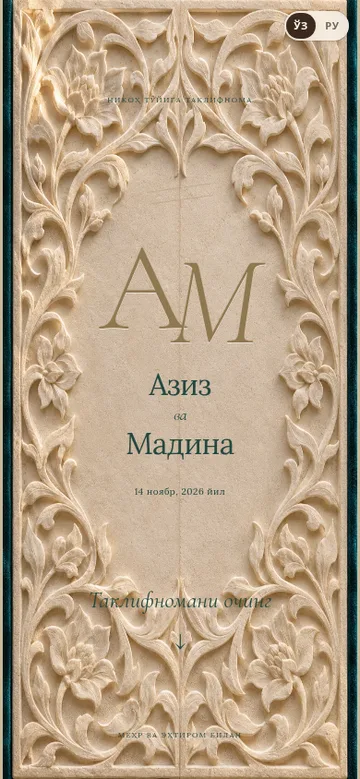
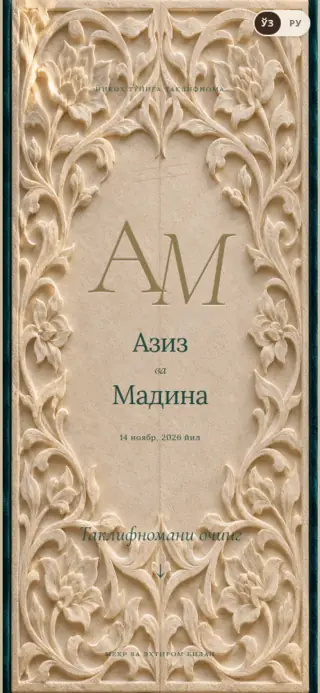
Refine five invitations with hinged envelopes and sculpted VIP scenes
Preserve existing designs and photos; add coherent three-photo defaults, Uzbek-first copy, silk and ganch address silhouettes, and mobile interaction verification.

diff --git a/templates/themes/vip-masterpiece/Parts.tsx b/templates/themes/vip-masterpiece/Parts.tsx
@@ -1,6 +1,6 @@
 "use client";
 import {useId,useRef,type ReactNode} from "react";
-import {motion,useScroll,useReducedMotion} from "motion/react";
+import {motion,useScroll,useReducedMotion,useTransform} from "motion/react";
 import {t,luxuryWeddingCopy as copy} from "@/texts/uz-cyrl";
 import {monthGrid} from "@/lib/wedding-date";
 import type {Invitation} from "../../blocks/useInvitation";
@@ -15,14 +15,17 @@ import s from "./masterpiece.module.css";
 export function Shell({inv,id,children}:{inv:Invitation;id:MasterpieceId;children:ReactNode}){const p=looks[id];return <InvitationShell inv={inv} style={vars(id)} fontsClassName={fonts} className={`${s.page} ${s[p.kind]}`} backdropClassName="bg-[#e2d8c9]" pageColor={p.paper} musicVariant="soft" brandVariant="soft" rsvpLook={{paper:p.paper,ink:p.ink,accent:p.accent,line:p.accent,soft:p.soft,radius:"0px",buttonRadius:"30px"}} epilogue={<Finale inv={inv}/>} >{children}</InvitationShell>;}
 export function Mono({inv}:{inv:Invitation}){const [a,b]=initials(inv.data);return <span className={s.monogram} data-latin-monogram aria-label={`${a} ${b}`}>{a}<i>{b}</i></span>;}
 export function Names({inv}:{inv:Invitation}){const ref=useFitWords<HTMLHeadingElement>(64);return <h1 ref={ref} className={s.names}><Words text={inv.data.groom??""}/><i>{t.natural.and}</i><Words text={inv.data.bride??""}/></h1>;}
-export function ScenePhoto({inv,id,slot,eager=false,className=""}:{inv:Invitation;id:MasterpieceId;slot:1|2|3;eager?:boolean;className?:string}){return <div className={`${s.image} ${className}`}><VipImage photo={photos(inv.data,id)[slot-1]} eager={eager}/></div>;}
+export function ScenePhoto({inv,id,slot,eager=false,className=""}:{inv:Invitation;id:MasterpieceId;slot:1|2|3;eager?:boolean;className?:string}){const ref=useRef<HTMLDivElement>(null),reduced=useReducedMotion(),photo=photos(inv.data,id)[slot-1];const {scrollYProgress}=useScroll({target:ref,offset:["start end","end start"]});const y=useTransform(scrollYProgress,[0,1],[10,-10]);return <div ref={ref} className={`${s.image} ${className}`}><motion.div className={s.photoPlane} style={{y:photo.client||reduced?0:y,scale:photo.client||reduced?1:1.09}}><VipImage photo={photo} eager={eager}/></motion.div></div>;}
 export function DateLine({inv}:{inv:Invitation}){const ev=reception(inv);return <p className={s.dateLine}>{t.date.long(ev.when.day,ev.when.monthIndex,ev.when.year)}<span> · {ev.time}</span></p>;}
 export function Scroll({inv}:{inv:Invitation}){return <span className={s.scroll}>{copy(inv.lang).scroll}<span>↓</span></span>;}
 export const PORTAL="M.06 1V.43Q.06 .26 .25 .25Q.19 .11 .37 .12Q.5 -.08 .63 .12Q.81 .11 .75 .25Q.94 .26 .94 .43V1Z";
 export function Portal({children}:{children:ReactNode}){const key=useId().replaceAll(":","");return <div className={s.portal}><svg width="0" height="0" aria-hidden="true"><defs><clipPath id={key} clipPathUnits="objectBoundingBox"><path d={PORTAL}/></clipPath></defs></svg><div className={s.portalInside} style={{clipPath:`url(#${key})`}}>{children}</div><svg className={s.portalEdge} viewBox="0 0 100 100" preserveAspectRatio="none" aria-hidden="true"><path d="M6 100V43Q6 26 25 25Q19 11 37 12Q50-8 63 12Q81 11 75 25Q94 26 94 43V100"/></svg></div>;}
 export function Flourish(){return <svg className={s.flourish} viewBox="0 0 160 40" fill="none" stroke="currentColor" strokeWidth=".7" aria-hidden="true"><path d="M6 30Q52 7 80 21q15-30 25-10q-7 17-25 10Q108 7 154 30M53 16q-12-18-21-7q5 13 21 7M109 16q12-18 21-7q-5 13-21 7M70 18q-7-21-17-14q0 13 17 14"/><path d="M16 27q17 12 29-3M115 24q12 15 29 3"/></svg>;}
 export function Letter({inv,id}:{inv:Invitation;id:MasterpieceId}){return <section data-vip-section="greeting" className={s.letter}><Reveal className={s.letterInk}><Flourish/><span className={s.eyebrow}>{copy(inv.lang).love}</span><h2>{inv.text.greeting}</h2><p>{inv.text.body}</p><p className={s.hosts}>{inv.data.hosts}</p></Reveal><Reveal className={s.secondFrame}><ScenePhoto inv={inv} id={id} slot={2}/><span className={s.threadLoop} aria-hidden="true"/></Reveal></section>;}
-export function Calendar({inv,children}:{inv:Invitation;children?:ReactNode}){const w=reception(inv).when;return <section data-vip-section="date" className={s.calendarScene}>{children}<Reveal className={s.datePaper}><span className={s.eyebrow}>{copy(inv.lang).day}</span><div className={s.calendarHeading}><span>{String(w.day).padStart(2,"0")}</span><p>{t.date.monthYear(w.monthIndex,w.year)}</p></div><div className={s.calendar} aria-label={t.natural.calendarAria(t.date.long(w.day,w.monthIndex,w.year))}>{t.weekdaysShort.map(d=><span key={d} className={s.weekday}>{d}</span>)}{monthGrid(w.year,w.monthIndex).flat().map((d,i)=><span key={i} aria-current={d===w.day?"date":undefined} className={s.day}>{d}{d===w.day&&<svg viewBox="0 0 44 44" aria-hidden="true"><path d="M22 38C2 25 1 15 8 9c6-4 12 0 14 5 4-9 13-10 17-3 6 10-7 21-17 27Z" pathLength="1"/></svg>}</span>)}</div></Reveal></section>;}
+export function Calendar({inv,children}:{inv:Invitation;children?:ReactNode}){const w=reception(inv).when;return <section data-vip-section="date" className={s.calendarScene}>{children}<Reveal className={s.datePaper}><SculptedPaper calendar/><span className={s.eyebrow}>{copy(inv.lang).day}</span><div className={s.calendarHeading}><span>{String(w.day).padStart(2,"0")}</span><p>{t.date.monthYear(w.monthIndex,w.year)}</p></div><div className={s.calendar} aria-label={t.natural.calendarAria(t.date.long(w.day,w.monthIndex,w.year))}>{t.weekdaysShort.map(d=><span key={d} className={s.weekday}>{d}</span>)}{monthGrid(w.year,w.monthIndex).flat().map((d,i)=><span key={i} aria-current={d===w.day?"date":undefined} className={s.day}>{d}{d===w.day&&<svg viewBox="0 0 44 44" aria-hidden="true"><path d="M22 38C2 25 1 15 8 9c6-4 12 0 14 5 4-9 13-10 17-3 6 10-7 21-17 27Z" pathLength="1"/></svg>}</span>)}</div></Reveal></section>;}
 export function Programme({inv}:{inv:Invitation}){const ref=useRef<HTMLElement>(null),reduced=useReducedMotion(),{scrollYProgress}=useScroll({target:ref,offset:["start 85%","end 70%"]});return <section ref={ref} data-vip-section="program" className={s.programme}><Reveal><h2>{t.venue.programTitle}</h2></Reveal><div className={s.programThread}><svg viewBox="0 0 300 700" preserveAspectRatio="none" aria-hidden="true"><path d="M145 0C-60 100 350 175 150 340S-40 500 155 700"/><motion.path d="M145 0C-60 100 350 175 150 340S-40 500 155 700" style={{pathLength:reduced?1:scrollYProgress}}/></svg><ol>{inv.program.map((ev,i)=><li key={`${ev.kind}-${ev.date}-${i}`}><Reveal><span className={s.eventIndex}>{String(i+1).padStart(2,"0")}</span><time dateTime={`${ev.date}T${ev.time}`}>{ev.time}</time><h3>{ev.title}</h3><p>{t.date.long(ev.when.day,ev.when.monthIndex,ev.when.year)}</p><p>{ev.venueName}</p></Reveal></li>)}</ol></div></section>;}
-export function Venues({inv}:{inv:Invitation}){return <section data-vip-section="venue" className={s.venues}><Reveal><Flourish/><span className={s.eyebrow}>{copy(inv.lang).arrival}</span><h2>{t.natural.place}</h2></Reveal>{inv.program.map((ev,i)=><Reveal key={`${ev.kind}-${i}`} className={s.venue}><p className={s.eyebrow}>{ev.title} · {ev.time}</p><h3>{ev.venueName}</h3><p>{ev.address}</p><MapButton href={ev.mapHref} className={s.mapButton} iconClassName="text-current"/></Reveal>)}</section>;}
+export function Venues({inv}:{inv:Invitation}){return <section data-vip-section="venue" className={s.venues}><Reveal><Flourish/><span className={s.eyebrow}>{copy(inv.lang).arrival}</span><h2>{t.natural.place}</h2></Reveal>{inv.program.map((ev,i)=><Reveal key={`${ev.kind}-${i}`} className={s.venue}><SculptedPaper/><span className={s.venueOrdinal} aria-hidden="true">{String(i+1).padStart(2,"0")}</span><p className={s.eyebrow}>{ev.title} · {ev.time}</p><h3>{ev.venueName}</h3><p>{ev.address}</p><MapButton href={ev.mapHref} className={s.mapButton} iconClassName="text-current"/></Reveal>)}</section>;}
 function Finale({inv}:{inv:Invitation}){return <section data-vip-section="closing" data-master-closing className={s.finale}><Reveal><Flourish/><Mono inv={inv}/><h2>{t.hosts.waiting}</h2><p>{inv.blessing}</p><p className={s.hosts}>{inv.data.hosts}</p></Reveal></section>;}
+
+/** A real material follows the silhouette; these are never rectangular address cards. */
+function SculptedPaper({calendar=false}:{calendar?:boolean}){const key=useId().replaceAll(":","");const d=calendar?"M160 4C265 4 315 70 303 180Q285 270 309 350C327 420 245 477 160 476C75 477-7 420 17 350Q35 270 17 180C5 70 55 4 160 4Z":"M160 5C220 35 254 10 284 55Q312 80 309 140L309 330Q280 369 240 360Q210 396 160 398Q110 396 80 360Q40 369 11 330L11 140Q8 80 36 55C66 10 100 35 160 5Z";return <svg className={s.surface} viewBox={calendar?"0 0 320 480":"0 0 320 404"} preserveAspectRatio="none" aria-hidden="true"><defs><pattern id={key} width="1" height="1" patternContentUnits="objectBoundingBox"><image className={s.surfaceSilk} href="/vip/vip-ipak-ziyosi/material.webp" width="1" height="1" preserveAspectRatio="xMidYMid slice"/><image className={s.surfaceGanch} href="/vip/vip-zarbof/material.webp" width="1" height="1" preserveAspectRatio="xMidYMid slice"/></pattern></defs><path className={s.surfaceBase} d={d}/><path className={s.surfaceTexture} d={d} fill={`url(#${key})`}/><path className={s.surfaceLine} d={d} pathLength="1"/></svg>;}

diff --git a/templates/themes/vip-tilla-muhr/Elements.tsx b/templates/themes/vip-tilla-muhr/Elements.tsx
@@ -3,7 +3,7 @@
 
 import { useEffect, useRef } from "react";
 import { motion, useMotionValue, useMotionValueEvent, useReducedMotion, useScroll } from "motion/react";
-import { t } from "@/texts/uz-cyrl";
+import { t, luxuryWeddingCopy as copy } from "@/texts/uz-cyrl";
 import { monthGrid } from "@/lib/wedding-date";
 import type { Invitation, InvitationEventView } from "../../blocks/useInvitation";
 import { useFitWords, Words } from "../../blocks/FitWords";
@@ -25,7 +25,7 @@ export function Greeting({ inv, id, ornate = false }: { inv: Invitation; id: str
 }
 export function DateSection({ inv }: { inv: Invitation }) {
   const date = inv.main.when;
-  return <section data-vip-section="date" className={`${s.section} ${s.dateSection}`}><Reveal><span className={s.eyebrow}>{t.vip.saveDate}</span><h2 className={s.script}>{t.natural.date}</h2><p className={s.month}>{t.date.monthYear(date.monthIndex, date.year)}</p><div className={s.calendar} aria-label={t.natural.calendarAria(t.date.long(date.day,date.monthIndex,date.year))}>{t.weekdaysShort.map(d=><span className={s.weekday} key={d}>{d}</span>)}{monthGrid(date.year,date.monthIndex).flat().map((d,i)=><span key={i} className={s.day} aria-current={d===date.day?"date":undefined}>{d}{d===date.day&&<svg viewBox="0 0 52 52" aria-hidden="true"><path d="M26 45C4 30 0 18 9 11c7-6 14-1 17 5 5-10 15-12 20-4 8 12-6 26-20 33Z" fill="none" stroke="currentColor" strokeWidth="1.1" pathLength="1" /></svg>}</span>)}</div><p className={s.dateNote}>{t.date.long(date.day,date.monthIndex,date.year)}</p></Reveal></section>;
+  return <section data-vip-section="date" className={`${s.section} ${s.dateSection}`}><Reveal><span className={s.eyebrow}>{copy(inv.lang).day}</span><h2 className={s.script}>{t.natural.date}</h2><p className={s.month}>{t.date.monthYear(date.monthIndex, date.year)}</p><div className={s.calendar} aria-label={t.natural.calendarAria(t.date.long(date.day,date.monthIndex,date.year))}>{t.weekdaysShort.map(d=><span className={s.weekday} key={d}>{d}</span>)}{monthGrid(date.year,date.monthIndex).flat().map((d,i)=><span key={i} className={s.day} aria-current={d===date.day?"date":undefined}>{d}{d===date.day&&<svg viewBox="0 0 52 52" aria-hidden="true"><path d="M26 45C4 30 0 18 9 11c7-6 14-1 17 5 5-10 15-12 20-4 8 12-6 26-20 33Z" fill="none" stroke="currentColor" strokeWidth="1.1" pathLength="1" /></svg>}</span>)}</div><p className={s.dateNote}>{t.date.long(date.day,date.monthIndex,date.year)}</p></Reveal></section>;
 }
 const CURVE="M160 12 C52 80 268 160 160 225 S52 355 160 415 S268 545 160 610 S70 700 160 748";
 /** Real order events only: no invented cake, ceremony or party times. Motion values avoid React renders per scroll frame. */
@@ -53,10 +53,10 @@ export function Program({ inv, ornate = false }: { inv: Invitation; ornate?: boo
     // eslint-disable-next-line react-hooks/exhaustive-deps
   },[reduced,inv.program.length]);
   useMotionValueEvent(scrollYProgress,"change",p=>{if(!reduced)update(p);});
-  return <section data-vip-section="program" className={`${s.section} ${s.program}`}><Reveal><Branch ornate={ornate} /><span className={s.eyebrow}>{t.vip.ourDay}</span><h2 className={s.script}>{t.venue.programTitle}</h2></Reveal><div ref={container} className={s.timeline} style={{minHeight:Math.max(650,inv.program.length*310)}}><svg className={s.path} viewBox="0 0 320 760" preserveAspectRatio="none" aria-hidden="true"><path ref={path} d={CURVE} fill="none" stroke="currentColor" strokeWidth=".8" vectorEffect="non-scaling-stroke" /></svg><motion.span ref={heart} data-vip-heart aria-hidden="true" className={s.movingHeart} style={{x,y}}>♥</motion.span>{inv.program.map((ev,i)=><article key={`${ev.kind}-${ev.date}-${ev.time}-${i}`} data-program-item className={s.programItem} style={{top:`${(i+.5)/inv.program.length*100}%`}}><span className={s.programNumber} aria-hidden="true">{String(i+1).padStart(2,"0")}</span><time dateTime={`${ev.date}T${ev.time}`}>{ev.time}</time><h3>{ev.title}</h3><p>{t.date.long(ev.when.day,ev.when.monthIndex,ev.when.year)}</p><p>{ev.venueName}</p></article>)}</div></section>;
+  return <section data-vip-section="program" className={`${s.section} ${s.program}`}><Reveal><Branch ornate={ornate} /><span className={s.eyebrow}>{copy(inv.lang).day}</span><h2 className={s.script}>{t.venue.programTitle}</h2></Reveal><div ref={container} className={s.timeline} style={{minHeight:Math.max(650,inv.program.length*310)}}><svg className={s.path} viewBox="0 0 320 760" preserveAspectRatio="none" aria-hidden="true"><path ref={path} d={CURVE} fill="none" stroke="currentColor" strokeWidth=".8" vectorEffect="non-scaling-stroke" /></svg><motion.span ref={heart} data-vip-heart aria-hidden="true" className={s.movingHeart} style={{x,y}}>♥</motion.span>{inv.program.map((ev,i)=><article key={`${ev.kind}-${ev.date}-${ev.time}-${i}`} data-program-item className={s.programItem} style={{top:`${(i+.5)/inv.program.length*100}%`}}><span className={s.programNumber} aria-hidden="true">{String(i+1).padStart(2,"0")}</span><time dateTime={`${ev.date}T${ev.time}`}>{ev.time}</time><h3>{ev.title}</h3><p>{t.date.long(ev.when.day,ev.when.monthIndex,ev.when.year)}</p><p>{ev.venueName}</p></article>)}</div></section>;
 }
 export function Venues({ inv }: { inv: Invitation }) {
-  return <section data-vip-section="venue" className={`${s.section} ${s.venues}`}><Reveal><span className={s.eyebrow}>{t.vip.together}</span><h2 className={s.script}>{t.natural.place}</h2></Reveal>{inv.program.map((ev,i)=><Venue key={`${ev.kind}-${i}`} ev={ev} />)}</section>;
+  return <section data-vip-section="venue" className={`${s.section} ${s.venues}`}><Reveal><span className={s.eyebrow}>{copy(inv.lang).arrival}</span><h2 className={s.script}>{t.natural.place}</h2></Reveal>{inv.program.map((ev,i)=><Venue key={`${ev.kind}-${i}`} ev={ev} />)}</section>;
 }
 function Venue({ ev }: {ev:InvitationEventView}) {
   return <Reveal className={s.venueCard}><p className={s.eyebrow}>{ev.title} · {ev.time}</p><h3>{ev.venueName}</h3>{ev.address&&<p>{ev.address}</p>}<MapButton href={ev.mapHref} className={s.mapButton} iconClassName="text-current" /></Reveal>;

diff --git a/templates/themes/vip-tilla-muhr/Envelope.tsx b/templates/themes/vip-tilla-muhr/Envelope.tsx
@@ -3,7 +3,7 @@
 /* eslint-disable @next/next/no-img-element -- Local materials are decoded before the short opening. */
 import { useEffect, useRef, useState, type CSSProperties } from "react";
 import { useAnimate, useReducedMotion } from "motion/react";
-import { t } from "@/texts/uz-cyrl";
+import { t, luxuryWeddingCopy as copy } from "@/texts/uz-cyrl";
 import type { Invitation } from "../../blocks/useInvitation";
 import { OpeningCaption } from "../../blocks/OpeningCaption";
 import { vipPhotos } from "./photos";
@@ -27,7 +27,7 @@ export function Envelope({ inv, id }: { inv: Invitation; id: string }) {
     const decode = async (src: string) => { const img = new Image(); img.src = src; await img.decode(); };
     const photos = vipPhotos(inv.data, id).slice(0, 2);
     return Promise.all([
-      ...["seal", "opening-envelope"].map(name => decode(`${base}/${name}.webp`)),
+      ...["seal", "opening-envelope", id === "vip-suzana" ? "lining" : "opening-lining"].map(name => decode(`${base}/${name}.webp`)),
       ...photos.map(async photo => {
         if (!photo) return;
         try { await decode(photo.src); } catch { await decode(photo.fallback); }
@@ -61,18 +61,19 @@ export function Envelope({ inv, id }: { inv: Invitation; id: string }) {
     setLoading(false);
     if (reduced) { inv.finishOpening(); return; }
 
-    const ease = [0.22, 0.61, 0.24, 1] as const;
+    const ease = [0.42, 0, 0.18, 1] as const;
     setPhase("crack");
     await animate("[data-vip-wax]", { scale: [1, 0.955, 1] }, { duration: 0.2, ease: "easeInOut" });
     if (!alive.current) return;
     setPhase("opening");
     await Promise.all([
-      animate("[data-vip-envelope-upper]", { y: "-77dvh", rotateX: 8 }, { duration: 1.4, ease }),
-      animate("[data-vip-envelope-lower]", { y: "42dvh", rotateX: -6 }, { duration: 1.4, ease }),
-      animate("[data-vip-cover-ink]", { y: "-77dvh", opacity: 0 }, { duration: 1.15, ease }),
-      animate("[data-vip-footer-ink]", { y: "42dvh", opacity: 0 }, { duration: 1.1, ease }),
-      animate("[data-vip-seal-half=upper]", { y: -145, rotate: -5, opacity: 0 }, { duration: 0.65, ease }),
-      animate("[data-vip-seal-half=lower]", { y: 145, rotate: 5, opacity: 0 }, { duration: 0.65, ease }),
+      animate("[data-envelope-hinge]", { rotateX: -154 }, { duration: .72, ease }),
+      animate("[data-vip-envelope-upper]", { y: "-74dvh", rotateX: 7 }, { duration: 1.05, delay: .3, ease }),
+      animate("[data-vip-envelope-lower]", { y: "65dvh", rotateX: -9 }, { duration: 1.05, delay: .3, ease }),
+      animate("[data-vip-cover-ink]", { opacity: 0 }, { duration: .25, ease: "easeOut" }),
+      animate("[data-vip-footer-ink]", { opacity: 0 }, { duration: .3, ease: "easeOut" }),
+      animate("[data-vip-seal-half=upper]", { y: -65, rotate: -14, opacity: 0 }, { duration: .5, ease }),
+      animate("[data-vip-seal-half=lower]", { y: 85, rotate: 12, opacity: 0 }, { duration: .55, ease }),
     ]);
     if (alive.current) inv.finishOpening();
   }
@@ -80,14 +81,14 @@ export function Envelope({ inv, id }: { inv: Invitation; id: string }) {
   if (inv.opened) return null;
   const initials = [inv.data.groom?.charAt(0), inv.data.bride?.charAt(0)].join(" · ");
   return <button
-    ref={scope} type="button" data-open data-vip-envelope data-vip-opening="split-v3" data-phase={phase}
+    ref={scope} type="button" data-open data-vip-envelope data-vip-opening="hinged-v4" data-phase={phase}
     aria-label={t.opening.tapToOpen} onClick={open} className={s.envelope}
-    style={{ "--vip-envelope-photo": `url(${base}/opening-envelope.webp)` } as CSSProperties}
+    style={{ "--vip-envelope-photo": `url(${base}/opening-envelope.webp)`, "--envelope-lining": `url(${base}/${id === "vip-suzana" ? "lining" : "opening-lining"}.webp)` } as CSSProperties}
   >
-    <span data-vip-envelope-upper className={s.upper} />
-    <span data-vip-envelope-lower className={s.lower} />
+    <span data-vip-envelope-lower className={s.lower}><span className={s.innerLining}/></span>
+    <span data-vip-envelope-upper className={s.upperGroup}><span className={s.upper}/><span data-envelope-hinge className={s.hinge}><span className={s.flapFront}/><span className={s.flapBack}/></span></span>
     <span data-vip-cover-ink className={s.coverCaption}>
-      <span className={s.eyebrow}>{t.vip.privateLetter}</span>
+      <span className={s.eyebrow}>{copy(inv.lang).invitation}</span>
       <span className={s.monogram}>{initials}</span>
       <OpeningCaption inv={inv} nameClassName={s.coverNames} metaClassName={s.coverMeta} />
     </span>
@@ -96,7 +97,7 @@ export function Envelope({ inv, id }: { inv: Invitation; id: string }) {
         <img src={`${base}/seal.webp`} alt="" width={480} height={480} /><span>{initials}</span>
       </span>)}
     </span></span>
-    <span data-vip-footer-ink className={s.openLabel} role="status">{error ? t.vip.retry : loading ? t.vip.loading : t.vip.openMe}</span>
-    <span data-vip-footer-ink className={s.coverFooter}>{t.vip.withLove}</span>
+    <span data-vip-footer-ink className={s.openLabel} role="status">{error ? copy(inv.lang).retry : loading ? copy(inv.lang).loading : copy(inv.lang).open}</span>
+    <span data-vip-footer-ink className={s.coverFooter}>{copy(inv.lang).love}</span>
   </button>;
 }

diff --git a/templates/themes/vip-masterpiece/masterpiece.module.css b/templates/themes/vip-masterpiece/masterpiece.module.css
@@ -19,3 +19,26 @@
 .rosetteEdge{position:absolute;inset:0;width:100%;height:100%;fill:none;stroke:#d3bd8b;stroke-width:.0017;pointer-events:none}
 
 .silk .calendarScene .datePaper{margin-top:-35px}
+
+/* Sculpted silk and carved paper: the address is part of the scene, not a card. */
+.photoPlane{position:relative;width:100%;height:100%}
+.datePaper,.venue{isolation:isolate;background:none!important;border:0!important;border-radius:0!important;box-shadow:none!important}
+.surface{position:absolute;inset:0;z-index:-1;width:100%;height:100%;overflow:visible;pointer-events:none;filter:drop-shadow(0 13px 15px #583e2014)}
+.surfaceBase{fill:#fbf3e7}.surfaceTexture{opacity:.24}.surfaceLine{fill:none;stroke:var(--c-gold);stroke-width:.8;vector-effect:non-scaling-stroke;stroke-dasharray:1;stroke-dashoffset:0}
+.surfaceGanch{display:none}.ganch .surfaceSilk{display:none}.ganch .surfaceGanch{display:block}.ganch .surfaceTexture{opacity:.16}
+.datePaper{padding:80px 34px 70px!important;margin-inline:18px}.silk .datePaper{margin-top:-50px!important}
+.venues{padding-inline:22px}.venue{position:relative;padding:54px 33px 61px!important;margin:40px 0 0!important;color:var(--c-ink)}
+.venueOrdinal{display:block;font-family:var(--master-display),serif;font-size:21px;font-style:italic;color:var(--c-gold);margin-bottom:20px}
+.venue h3{font-size:35px;letter-spacing:-.025em;line-height:1.16;margin-top:20px}.venue>p:not(.eyebrow){font-size:13px}
+.mapButton{position:relative;display:inline-flex;flex-direction:column;justify-content:center;align-items:center;width:128px;height:128px;border-radius:50%;border:1px solid var(--c-gold);margin:27px auto 0;padding:19px 14px;gap:7px!important;line-height:1.5;font-size:11px!important;background:color-mix(in srgb,var(--c-paper) 70%,transparent);box-shadow:inset 0 1px 3px #fff9,0 5px 13px #73513512}
+.mapButton:before{content:"";position:absolute;inset:6px;border:1px solid var(--line);border-radius:50%;pointer-events:none}.mapButton svg{width:21px;height:21px;flex-shrink:0}.mapButton:active{transform:scale(.97)}
+.venue[data-reveal=animate] .surfaceLine{animation:traceSurface 1.5s .1s ease both}@keyframes traceSurface{from{stroke-dashoffset:1}to{stroke-dashoffset:0}}
+.silk .secondFrame>.image{border:0;outline:0;border-radius:48% 52% 43% 57% / 34% 41% 59% 66%;transform:rotate(-4deg);box-shadow:0 16px 24px #67472b20}.silk .threadLoop{width:90px;height:150px;right:-17px;top:50%;border-color:#b9966b99}
+.silkNames .names{font-weight:400}.ganch .names{font-style:italic;letter-spacing:-.02em}.ganch .names i{font-style:normal}
+.ganch .ceremony{background:none;color:#f3e7cf;box-shadow:none;border-radius:0;margin:0;padding:35px 0 10px}
+.ganch .calendarScene{padding-inline:15px}.ganch .datePaper{margin:0;padding:75px 35px 70px!important;color:var(--c-ink)}
+.ganch .venues{padding:35px 22px 45px}.ganch .venue{margin-top:35px!important}.ganch .venue .mapButton{background:#234841;color:#f7ead2;border-color:#b69a67;box-shadow:inset 0 2px 5px #112e2877,0 6px 12px #163a3129}.ganch .venue .mapButton:before{border-color:#b69a6780}
+.ganch .venues>div:first-child>.eyebrow{color:#d3bf94}.ganch .venues>div:first-child h2{color:#f4e8d1}
+.ganch .letterInk{border-radius:45% 45% 8% 8% / 75px 75px 35px 35px;padding-bottom:75px}.ganch .programThread>svg{stroke:#d2b781}.programme li p{font-size:12px}.programme h3{font-size:12px}
+@media(max-width:370px){.venue{padding-inline:28px!important}.venue h3{font-size:30px}.datePaper{padding-inline:26px!important}.ganch .datePaper{padding-inline:28px!important}.mapButton{width:116px;height:116px;font-size:10px!important}}
+@media(prefers-reduced-motion:reduce){.photoPlane{transform:none!important}.surfaceLine{animation:none!important}}

diff --git a/templates/themes/vip-suzana/Design.tsx b/templates/themes/vip-suzana/Design.tsx
@@ -1,7 +1,7 @@
 "use client";
 
 import type { TemplateProps } from "../types";
-import { t } from "@/texts/uz-cyrl";
+import { t, luxuryWeddingCopy as copy } from "@/texts/uz-cyrl";
 import { useInvitation } from "../../blocks/useInvitation";
 import { InvitationShell } from "../../blocks/InvitationShell";
 import { vipPhotos } from "../vip-tilla-muhr/photos";
@@ -15,11 +15,11 @@ import s from "./suzana.module.css";
 const id="vip-suzana";
 const palette={paper:"#F8F2E8",ink:"#4A2931",accent:"#7A2234",soft:"#EEDFD8"};
 export default function Design({data,mode}:TemplateProps) {
-  const inv=useInvitation(data,mode);
+  const inv=useInvitation(data,mode,{initialLanguage:"uz"});
   return <InvitationShell inv={inv} style={vipVars(palette)} fontsClassName={fontClasses} className={`${common.page} ${s.heritage}`} backdropClassName="bg-[#e8ded2]" pageColor={palette.paper} musicVariant="soft" brandVariant="soft" rsvpLook={{paper:palette.paper,ink:palette.ink,line:"#B8924A",soft:palette.soft,accent:palette.accent,radius:"8px",buttonRadius:"24px"}} epilogue={<Closing inv={inv} id={id} ornate />}>
     <Envelope inv={inv} id={id} />
     <div inert={!inv.opened} aria-hidden={!inv.opened}>
-      <section data-vip-section="hero" className={s.hero}><VipImage photo={vipPhotos(inv.data,id)[0]} eager /><div className={s.heroVeil} /><div className={s.heroBorder} /><div data-vip-hero-ink className={s.nameplate}><Branch ornate /><span className={common.eyebrow}>{t.occasionTitles.nikoh}</span><Names inv={inv} /><p className={s.heroDate}>{t.date.long(inv.main.when.day,inv.main.when.monthIndex,inv.main.when.year)}</p></div><span className={s.scroll}>{t.vip.scroll} ↓</span></section>
+      <section data-vip-section="hero" className={s.hero}><VipImage photo={vipPhotos(inv.data,id)[0]} eager /><div className={s.heroVeil} /><div className={s.heroBorder} /><div data-vip-hero-ink className={s.nameplate}><Branch ornate /><span className={common.eyebrow}>{t.occasionTitles.nikoh}</span><Names inv={inv} /><p className={s.heroDate}>{t.date.long(inv.main.when.day,inv.main.when.monthIndex,inv.main.when.year)}</p></div><span className={s.scroll}>{copy(inv.lang).scroll} ↓</span></section>
       <main data-vip-layout="three-photos"><Greeting inv={inv} id={id} ornate /><DateSection inv={inv} /><Program inv={inv} ornate /><Venues inv={inv} /></main>
     </div>
   </InvitationShell>;

diff --git a/templates/themes/vip-osmon/Design.tsx b/templates/themes/vip-osmon/Design.tsx
@@ -1,7 +1,7 @@
 "use client";
 
 import type { TemplateProps } from "../types";
-import { t } from "@/texts/uz-cyrl";
+import { t, luxuryWeddingCopy as copy } from "@/texts/uz-cyrl";
 import { useInvitation } from "../../blocks/useInvitation";
 import { InvitationShell } from "../../blocks/InvitationShell";
 import { vipPhotos } from "../vip-tilla-muhr/photos";
@@ -15,11 +15,11 @@ import s from "./osmon.module.css";
 const id="vip-osmon";
 const palette={paper:"#F7FAFC",ink:"#233E53",accent:"#708FA8",soft:"#E3ECF2"};
 export default function Design({data,mode}:TemplateProps) {
-  const inv=useInvitation(data,mode);
+  const inv=useInvitation(data,mode,{initialLanguage:"uz"});
   return <InvitationShell inv={inv} style={vipVars(palette)} fontsClassName={fontClasses} className={`${common.page} ${s.sky}`} backdropClassName="bg-[#dce5eb]" pageColor={palette.paper} musicVariant="soft" brandVariant="soft" rsvpLook={{paper:palette.paper,ink:palette.ink,line:palette.accent,soft:palette.soft,accent:palette.accent,radius:"32px",buttonRadius:"24px"}} epilogue={<Closing inv={inv} id={id} />}>
     <Envelope inv={inv} id={id} />
     <div inert={!inv.opened} aria-hidden={!inv.opened}>
-      <section data-vip-section="hero" className={s.hero}><div className={s.heroFrame}><VipImage photo={vipPhotos(inv.data,id)[0]} eager /></div><div data-vip-hero-ink className={s.title}><span className={common.eyebrow}>{t.occasionTitles.nikoh}</span><Names inv={inv} /><p>{t.date.long(inv.main.when.day,inv.main.when.monthIndex,inv.main.when.year)}</p></div><span className={s.sideNote}>{t.vip.withLove}</span><span className={s.scroll}>{t.vip.scroll} ↓</span></section>
+      <section data-vip-section="hero" className={s.hero}><div className={s.heroFrame}><VipImage photo={vipPhotos(inv.data,id)[0]} eager /></div><div data-vip-hero-ink className={s.title}><span className={common.eyebrow}>{t.occasionTitles.nikoh}</span><Names inv={inv} /><p>{t.date.long(inv.main.when.day,inv.main.when.monthIndex,inv.main.when.year)}</p></div><span className={s.sideNote}>{copy(inv.lang).love}</span><span className={s.scroll}>{copy(inv.lang).scroll} ↓</span></section>
       <main data-vip-layout="three-photos"><Greeting inv={inv} id={id} /><DateSection inv={inv} /><Program inv={inv} /><Venues inv={inv} /></main>
     </div>
   </InvitationShell>;

diff --git a/templates/themes/vip-tilla-muhr/Design.tsx b/templates/themes/vip-tilla-muhr/Design.tsx
@@ -2,7 +2,7 @@
 
 
 import type { TemplateProps } from "../types";
-import { t } from "@/texts/uz-cyrl";
+import { t, luxuryWeddingCopy as copy } from "@/texts/uz-cyrl";
 import { useInvitation } from "../../blocks/useInvitation";
 import { InvitationShell } from "../../blocks/InvitationShell";
 import { vipPhotos } from "./photos";
@@ -14,11 +14,11 @@ import s from "./vip.module.css";
 
 const id="vip-tilla-muhr";
 export default function Design({data,mode}:TemplateProps) {
-  const inv=useInvitation(data,mode);
+  const inv=useInvitation(data,mode,{initialLanguage:"uz"});
   return <InvitationShell inv={inv} style={vipVars(palette)} fontsClassName={fontClasses} className={s.page} backdropClassName="bg-[#e9e0d2]" pageColor={palette.paper} musicVariant="soft" brandVariant="soft" rsvpLook={{paper:palette.paper,ink:palette.ink,line:palette.accent,soft:palette.soft,accent:palette.accent,radius:"28px",buttonRadius:"24px"}} epilogue={<Closing inv={inv} id={id} />}>
     <Envelope inv={inv} id={id} />
     <div inert={!inv.opened} aria-hidden={!inv.opened}>
-      <section data-vip-section="hero" className={s.hero}><VipImage photo={vipPhotos(inv.data,id)[0]} eager /><div className={s.heroShade} /><div data-vip-hero-ink className={s.heroTitle}><p className={s.eyebrow}>{t.occasionTitles.nikoh}</p><Names inv={inv} /><p className={s.heroDate}>{t.date.long(inv.main.when.day,inv.main.when.monthIndex,inv.main.when.year)}</p></div><span className={s.heroBottom}>{t.vip.scroll}<span>↓</span></span></section>
+      <section data-vip-section="hero" className={s.hero}><VipImage photo={vipPhotos(inv.data,id)[0]} eager /><div className={s.heroShade} /><div data-vip-hero-ink className={s.heroTitle}><p className={s.eyebrow}>{t.occasionTitles.nikoh}</p><Names inv={inv} /><p className={s.heroDate}>{t.date.long(inv.main.when.day,inv.main.when.monthIndex,inv.main.when.year)}</p></div><span className={s.heroBottom}>{copy(inv.lang).scroll}<span>↓</span></span></section>
       <main data-vip-layout="three-photos"><Greeting inv={inv} id={id} /><DateSection inv={inv} /><Program inv={inv} /><Venues inv={inv} /></main>
     </div>
   </InvitationShell>;

diff --git a/templates/themes/vip-suzana/suzana.module.css b/templates/themes/vip-suzana/suzana.module.css
@@ -9,3 +9,5 @@
 .textile{position:relative;padding:30px 27px 85px;display:grid;grid-template-columns:1fr 1fr;gap:20px 16px}.textileBand{position:absolute;left:0;right:0;top:130px;height:96px;background:url('/vip/vip-suzana/lining.webp') center/230px;opacity:.75}.silkPhoto{position:relative;width:100%;aspect-ratio:.7;border:6px solid #f8f2e8;outline:1px solid #b8924a70}.detail{position:relative;grid-column:1/-1;padding:15px 18px;text-align:center}.detail>span{font-size:9px;letter-spacing:.2em;margin-bottom:18px}.detail>p{font-size:13px;line-height:2}.detail>svg{margin:23px auto 0;color:#B8924A}.dutarPhoto{position:relative;grid-column:2;width:100%;aspect-ratio:.65;border:6px solid #f8f2e8;outline:1px solid #b8924a70;margin-top:-12px}
 .heritage [data-vip-section=venue]{padding-top:0}.heritage [data-vip-section=venue] h2{color:#7A2234}.heritage [data-vip-section=venue] h3{color:#7A2234}.heritage [data-vip-section=venue] [role=group]{outline:1px solid #b8924a70;outline-offset:6px;border-radius:160px 160px 3px 3px;border:5px solid #F8F2E8}.heritage [data-vip-section=closing]{background:#f0e5d6;margin-top:70px;border-top:1px solid #b8924a70}.heritage [data-vip-section=closing]>svg{color:#B8924A}.heritage [data-vip-section=closing]>p:first-of-type{color:#7A2234}.heritage [data-vip-section=closing]>div{outline:1px solid #B8924A;outline-offset:7px}
 @media(max-width:370px){.hero{min-height:700px}.nameplate{inset-inline:29px;padding:18px 15px 26px;bottom:calc(10% + env(safe-area-inset-bottom))}.nameplate h1{font-size:min(var(--fit,62px),46px)}.nameplate>span{margin-bottom:15px}.heroDate{margin-top:18px!important}.heritage [data-vip-section=greeting]{padding-inline:24px}.heritage [data-vip-section=greeting]>div{margin-left:12px;padding-inline:23px}.heritage [data-vip-section=program]{padding-inline:22px}.heritage [data-vip-section=program] h2{font-size:28px}}
+
+.nameplate{border-radius:120px 120px 14px 14px;padding-top:35px}.heritage [data-vip-section=greeting]>div{outline:0;border-radius:55px 4px 55px 4px;box-shadow:0 10px 30px #642b3110}

diff --git a/templates/themes/vip-masterpiece/Opening.tsx b/templates/themes/vip-masterpiece/Opening.tsx
@@ -13,12 +13,12 @@ export function Opening({inv,id}:{inv:Invitation;id:MasterpieceId}){
  useEffect(()=>{alive.current=true;ready.current=preload();void ready.current.then(()=>{if(alive.current)scope.current?.setAttribute("data-ready","true");}).catch(()=>{});return()=>{alive.current=false;};},[preload,scope]);
  async function open(){if(busy.current)return;busy.current=true;inv.start();setStatus("loading");try{await(ready.current??preload());}catch{busy.current=false;ready.current=null;if(alive.current)setStatus("error");return;}if(!alive.current)return;if(reduced){inv.finishOpening();return;}setPhase("opening");setStatus("idle");const ease=[.45,0,.18,1] as const;
  await Promise.all(kind==="silk"?[
-  animate("[data-cover-left]",{y:"-100dvh",x:"-12%",rotate:-8},{duration:1.55,ease}),
-  animate("[data-cover-right]",{y:"100dvh",x:"12%",rotate:8},{duration:1.55,delay:.04,ease}),
+  animate("[data-cover-left]",{y:"-100dvh",x:"-12%",rotate:-8,rotateY:-12,rotateX:9},{duration:1.55,ease}),
+  animate("[data-cover-right]",{y:"100dvh",x:"12%",rotate:8,rotateY:12,rotateX:-9},{duration:1.55,delay:.04,ease}),
   animate("[data-cover-ink]",{opacity:0},{duration:.35,ease:"easeOut"}),
  ]:[
-  animate("[data-cover-left]",{x:"-62%",rotateY:-55},{duration:1.7,ease}),
-  animate("[data-cover-right]",{x:"62%",rotateY:55},{duration:1.7,delay:.04,ease}),
+  animate("[data-cover-left]",{x:"-62%",rotateY:-72},{duration:1.7,ease}),
+  animate("[data-cover-right]",{x:"62%",rotateY:72},{duration:1.7,delay:.04,ease}),
   animate("[data-cover-ink]",{opacity:0},{duration:.35,ease:"easeOut"}),
  ]);if(alive.current)inv.finishOpening();}
  if(inv.opened)return null;const mono=initials(inv.data),w=reception(inv).when;

diff --git a/templates/themes/vip-tilla-muhr/envelope.module.css b/templates/themes/vip-tilla-muhr/envelope.module.css
@@ -12,3 +12,16 @@
 .envelope[data-phase=opening] :is(.upper,.lower,.sealUpper,.sealLower){will-change:transform,opacity}
 @media(max-width:370px){.coverCaption{inset-inline:22px;top:max(6.5%,calc(env(safe-area-inset-top) + 12px))}.monogram{font-size:57px;margin:16px 0 12px}.coverNames{font-size:28px}.coverMeta{font-size:10px}.openLabel{font-size:22px}}
 @media(prefers-reduced-motion:reduce){.envelope *{animation:none!important;transition:none!important}}
+
+.upperGroup{position:absolute;inset:0;z-index:3;transform-style:preserve-3d;pointer-events:none}
+.upper{clip-path:inset(0 0 63.7%)}
+.lower{z-index:1;clip-path:inset(36.3% 0 0);transform-origin:50% 100%}
+.innerLining{position:absolute;inset:0;background:var(--envelope-lining) center/250px;clip-path:polygon(0 36.3%,100% 36.3%,100% 44%,54% 67.5%,50% 68.2%,46% 67.5%,0 44%);box-shadow:inset 0 20px 35px #37240d22}
+.hinge{position:absolute;inset:0;transform-origin:50% 36.3%;transform-style:preserve-3d;filter:drop-shadow(0 5px 4px #392b192b)}
+.flapFront,.flapBack{position:absolute;inset:0;backface-visibility:hidden;-webkit-backface-visibility:hidden;clip-path:polygon(0 36.3%,100% 36.3%,100% 44%,54% 67.5%,50% 68.2%,46% 67.5%,0 44%)}
+.flapFront{background:var(--vip-envelope-photo) center/100% 100%}
+.flapBack{background:var(--envelope-lining) center/250px;transform:rotateX(180deg);transform-origin:50% 36.3%}
+.coverCaption{z-index:4}.seal{z-index:5}.openLabel,.coverFooter{z-index:5}
+.envelope[data-phase=opening] .hinge{will-change:transform}
+
+.hinge{filter:none}.flapFront{box-shadow:inset 0 2px 1px #fff8}

diff --git a/templates/themes/vip-tilla-muhr/photos.ts b/templates/themes/vip-tilla-muhr/photos.ts
@@ -3,10 +3,12 @@ import type { InvitationData } from "@/lib/types";
 export type VipPhoto = { src: string; fallback: string; client: boolean; slot: 1 | 2 | 3 };
 
 /** The same three ordered client-photo slots used by the existing bot and InvitationData. */
-export function vipPhotos(data: Pick<InvitationData, "photos">, id: string): [VipPhoto, VipPhoto, VipPhoto | undefined] {
-  const hero = id === "vip-suzana" ? "/vip/vip-tilla-muhr/hero.webp" : `/vip/${id}/hero.webp`;
-  const fallbacks = [hero, `/vip/${id}/flowers.webp`, hero];
+export function vipPhotos(data: Pick<InvitationData, "photos">, id: string): [VipPhoto, VipPhoto, VipPhoto] {
+  const fallbacks = id === "vip-suzana"
+    ? ["/vip/vip-ipak-ziyosi/2.webp", "/vip/vip-ipak-ziyosi/1.webp", "/vip/vip-ipak-ziyosi/3.webp"]
+    : id === "vip-osmon" ? [`/vip/${id}/hero.webp`, `/vip/${id}/hands.webp`, `/vip/${id}/rings.webp`]
+    : [`/vip/${id}/hero.webp`, `/vip/${id}/flowers.webp`, `/vip/${id}/rings.webp`];
   const own = (data.photos ?? []).slice(0, 3);
   const photo = (index: number): VipPhoto => ({ src: own[index] || fallbacks[index], fallback: fallbacks[index], client: Boolean(own[index]), slot: (index + 1) as 1 | 2 | 3 });
-  return [photo(0), photo(1), own[2] ? photo(2) : undefined];
+  return [photo(0), photo(1), photo(2)];
 }

diff --git a/templates/vip-invitations.test.ts b/templates/vip-invitations.test.ts
@@ -16,7 +16,7 @@ for(const id of ids)describe(id,()=>{
  });
  it("keeps default photography restrained and never uses a venue as a couple photograph",()=>{
   const result=vipPhotos({},id);
-  expect(result.filter(Boolean)).toHaveLength(2);expect(result[2]).toBeUndefined();
+  expect(result.filter(Boolean)).toHaveLength(3);expect(result[2]).toBeDefined();
   expect(result[0].src).not.toContain('vip-suzana/hero');
  });
  it("renders each uploaded photograph once, a short split cover, and data-driven map links",async()=>{
@@ -24,7 +24,7 @@ for(const id of ids)describe(id,()=>{
   const html=renderToStaticMarkup(createElement(Design,{data:{...design.sample,photos,noMusic:true},mode:"full"}));
   expect((html.match(/data-vip-photo-slot=/g)??[])).toHaveLength(3);
   photos.forEach(src=>expect(html).toContain(`src="${src}"`));
-  expect(html).toContain('data-vip-opening="split-v3"');
+  expect(html).toContain('data-vip-opening="hinged-v4"');
   expect(html).not.toMatch(/data-vip-sheet|hall-[12]\.webp|\/glasses\.webp|\/table\.webp|\/music\.webp/);
   expect(html).toContain('https://2gis.kz/geo/');
   expect(html).toContain('aria-current="date"');
